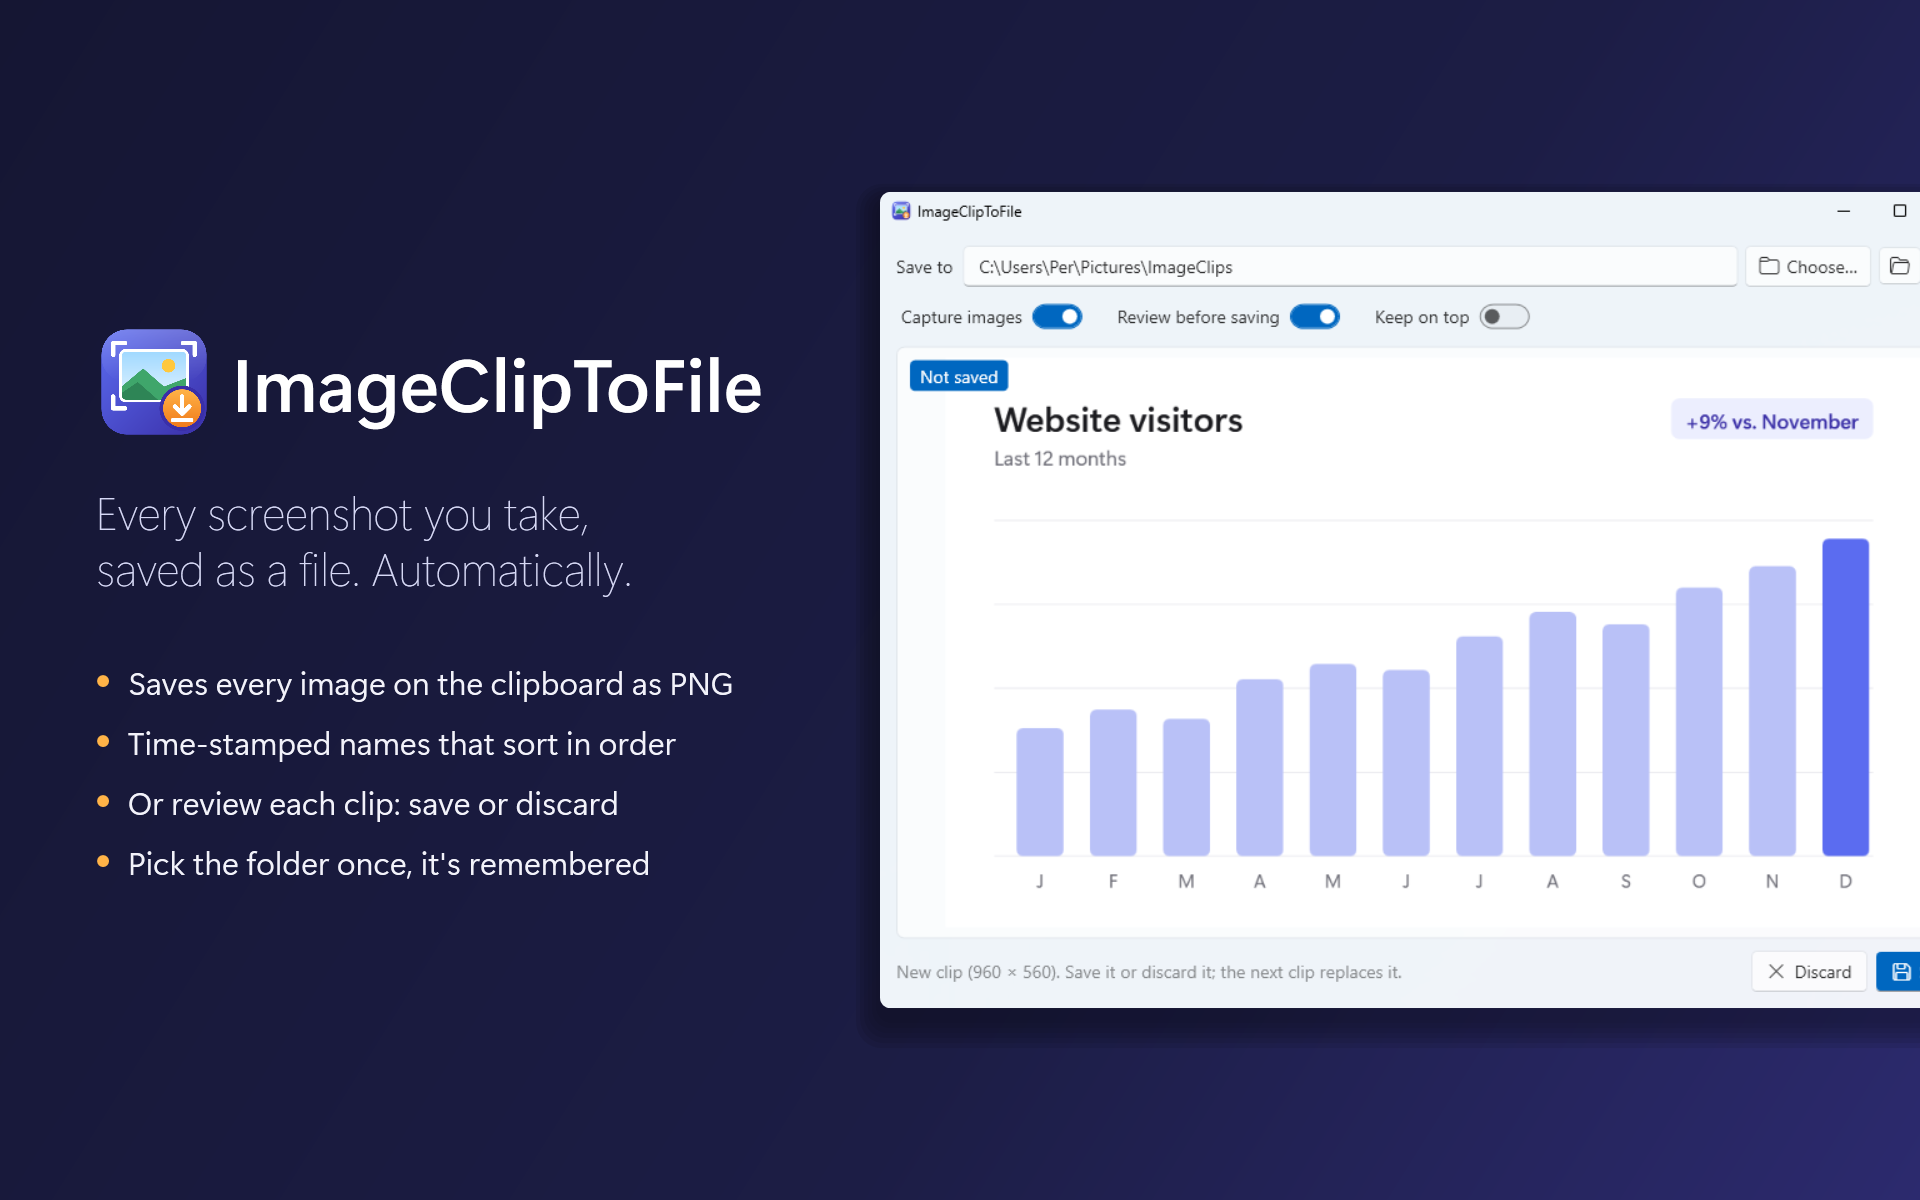
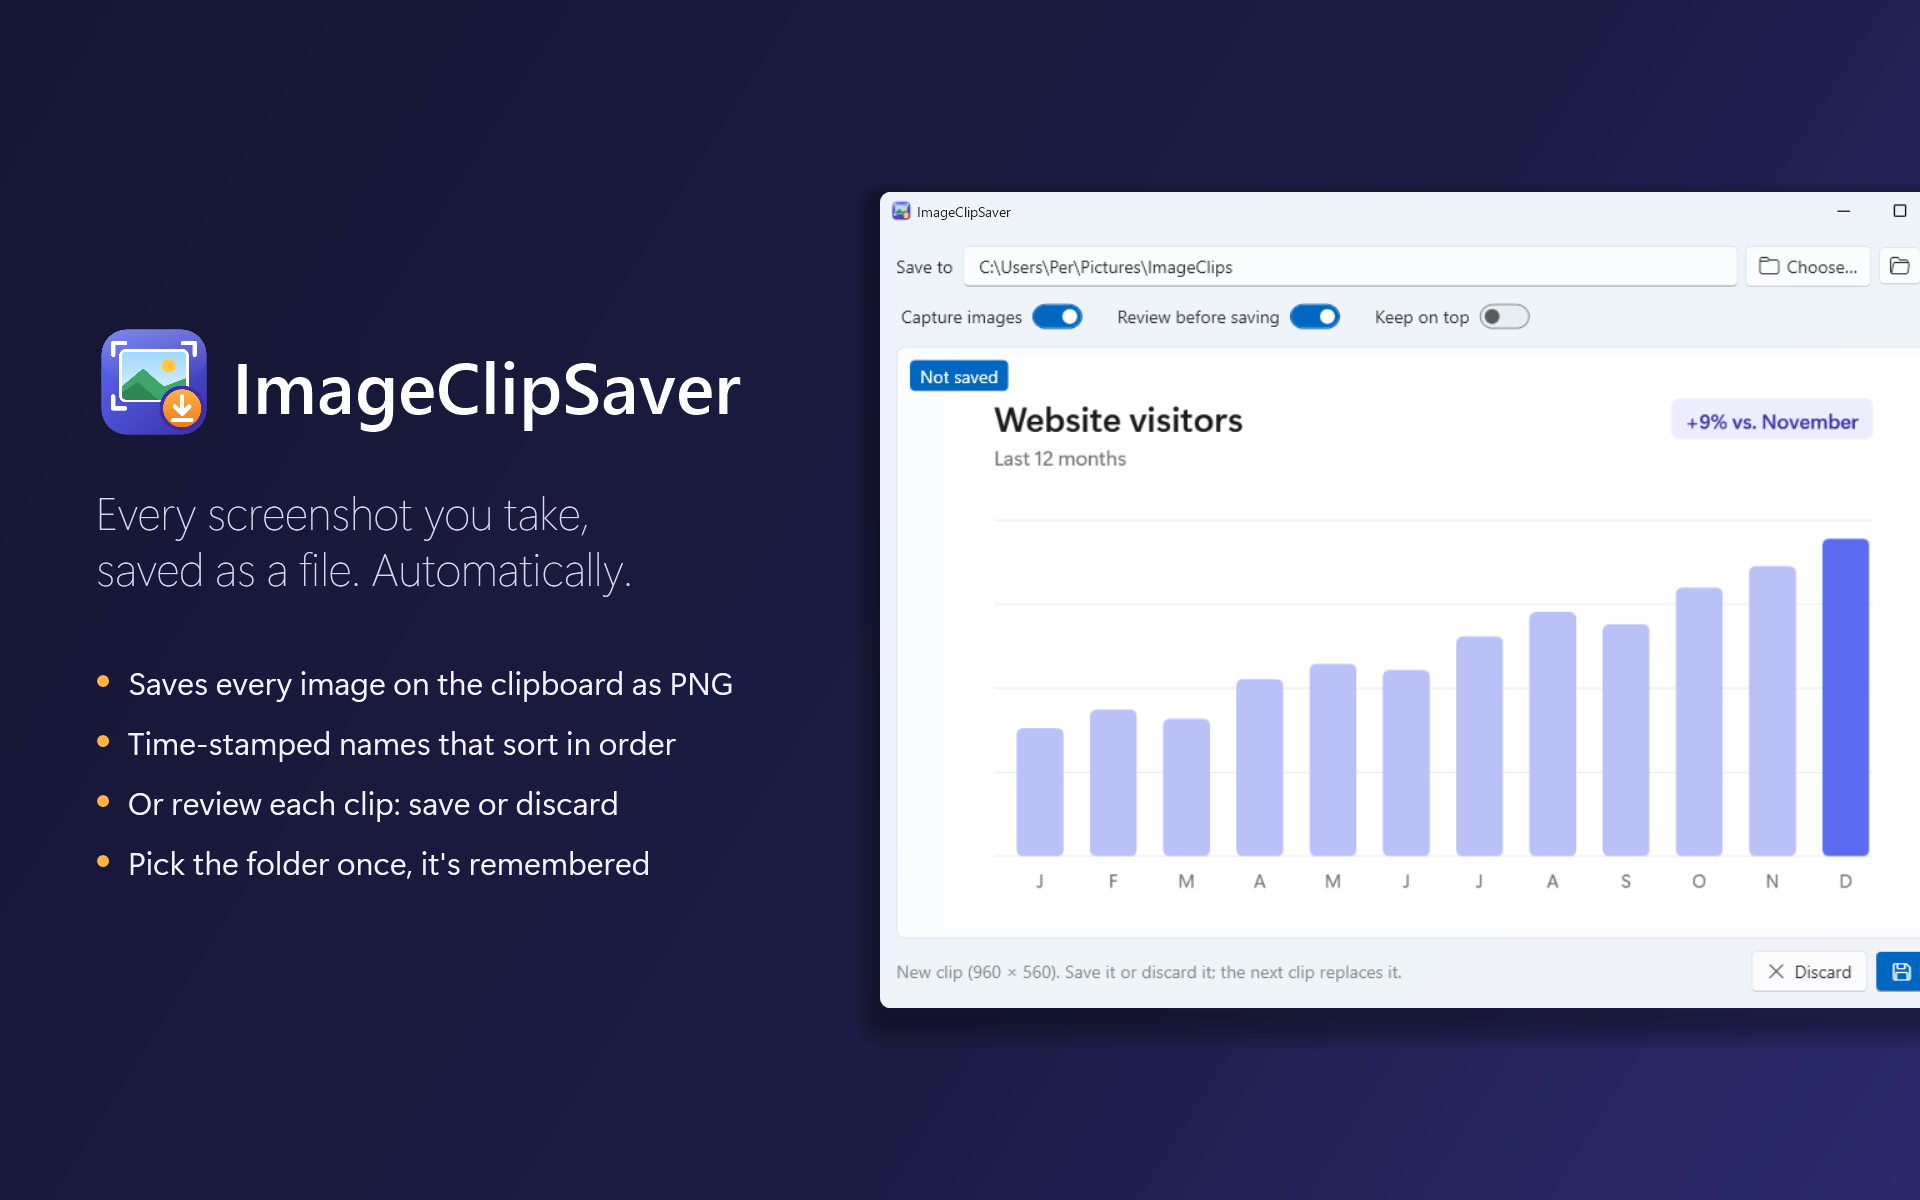
Rename ImageClipToFile to ImageClipSaver
The app, project, namespace, release script, workflow, README and banner
now use the new name, and the update check points at the renamed public
repo. Settings saved under the old name are still read on first start.

Changed region(s): [[0.125, 0.2775, 0.4062, 0.37], [0.4688, 0.1542, 0.5312, 0.185]]

diff --git a/ImageClipSaver/MainWindow.xaml b/ImageClipSaver/MainWindow.xaml
@@ -1,8 +1,8 @@
-<Window x:Class="ImageClipToFile.MainWindow"
+<Window x:Class="ImageClipSaver.MainWindow"
         xmlns="http://schemas.microsoft.com/winfx/2006/xaml/presentation"
         xmlns:x="http://schemas.microsoft.com/winfx/2006/xaml"
-        xmlns:local="clr-namespace:ImageClipToFile"
-        Title="ImageClipToFile"
+        xmlns:local="clr-namespace:ImageClipSaver"
+        Title="ImageClipSaver"
         Icon="app.ico"
         Width="760" Height="560" MinWidth="460" MinHeight="340"
         Loaded="Window_Loaded" Closing="Window_Closing">
@@ -40,7 +40,7 @@
         <DockPanel Grid.Row="0">
             <TextBlock DockPanel.Dock="Left" Text="Save to" VerticalAlignment="Center" Margin="0,0,8,0" />
             <Button DockPanel.Dock="Right" Margin="6,0,0,0" Padding="8,6" Command="{x:Static local:MainWindow.ShowAbout}"
-                    ToolTip="About ImageClipToFile and updates (F1)" AutomationProperties.Name="About ImageClipToFile">
+                    ToolTip="About ImageClipSaver and updates (F1)" AutomationProperties.Name="About ImageClipSaver">
                 <TextBlock Style="{StaticResource Glyph}" Text="&#xE946;" />
             </Button>
             <Button DockPanel.Dock="Right" Margin="6,0,0,0" Padding="8,6" Click="OpenFolder_Click"

diff --git a/ImageClipSaver/AboutWindow.xaml b/ImageClipSaver/AboutWindow.xaml
@@ -1,7 +1,7 @@
-<Window x:Class="ImageClipToFile.AboutWindow"
+<Window x:Class="ImageClipSaver.AboutWindow"
         xmlns="http://schemas.microsoft.com/winfx/2006/xaml/presentation"
         xmlns:x="http://schemas.microsoft.com/winfx/2006/xaml"
-        Title="About ImageClipToFile"
+        Title="About ImageClipSaver"
         Icon="app.ico"
         SizeToContent="WidthAndHeight" ResizeMode="NoResize"
         WindowStartupLocation="CenterOwner" ShowInTaskbar="False">
@@ -10,7 +10,7 @@
             <Image x:Name="AppIcon" Width="64" Height="64" VerticalAlignment="Top"
                    RenderOptions.BitmapScalingMode="HighQuality" />
             <StackPanel Margin="18,2,0,0" VerticalAlignment="Center">
-                <TextBlock Text="ImageClipToFile" FontSize="22" FontWeight="SemiBold" />
+                <TextBlock Text="ImageClipSaver" FontSize="22" FontWeight="SemiBold" />
                 <TextBlock x:Name="VersionText" Margin="0,2,0,0"
                            Foreground="{DynamicResource TextFillColorSecondaryBrush}"
                            ToolTip="Version · build time · commit" />

diff --git a/ImageClipSaver/App.xaml b/ImageClipSaver/App.xaml
@@ -1,4 +1,4 @@
-<Application x:Class="ImageClipToFile.App"
+<Application x:Class="ImageClipSaver.App"
              xmlns="http://schemas.microsoft.com/winfx/2006/xaml/presentation"
              xmlns:x="http://schemas.microsoft.com/winfx/2006/xaml"
              ThemeMode="System"

diff --git a/ImageClipSaver/AppSettings.cs b/ImageClipSaver/AppSettings.cs
@@ -1,14 +1,20 @@
 using System.IO;
 using System.Text.Json;
 
-namespace ImageClipToFile;
+namespace ImageClipSaver;
 
 /// <summary>
-/// Small JSON settings file in %LocalAppData%\ImageClipToFile.
+/// Small JSON settings file in %LocalAppData%\ImageClipSaver.
 /// </summary>
 internal sealed class AppSettings
 {
     private static readonly string FilePath = Path.Combine(
+        Environment.GetFolderPath(Environment.SpecialFolder.LocalApplicationData),
+        "ImageClipSaver",
+        "settings.json");
+
+    // Where the app kept its settings before it was renamed from ImageClipToFile
+    private static readonly string LegacyFilePath = Path.Combine(
         Environment.GetFolderPath(Environment.SpecialFolder.LocalApplicationData),
         "ImageClipToFile",
         "settings.json");
@@ -31,8 +37,9 @@ internal sealed class AppSettings
     {
         try
         {
-            if (File.Exists(FilePath))
-                return JsonSerializer.Deserialize<AppSettings>(File.ReadAllText(FilePath)) ?? new AppSettings();
+            var path = File.Exists(FilePath) ? FilePath : LegacyFilePath;
+            if (File.Exists(path))
+                return JsonSerializer.Deserialize<AppSettings>(File.ReadAllText(path)) ?? new AppSettings();
         }
         catch (Exception ex) when (ex is IOException or JsonException or UnauthorizedAccessException)
         {

diff --git a/ImageClipSaver/MainWindow.xaml.cs b/ImageClipSaver/MainWindow.xaml.cs
@@ -9,7 +9,7 @@ using System.Windows.Interop;
 using System.Windows.Media.Imaging;
 using Microsoft.Win32;
 
-namespace ImageClipToFile;
+namespace ImageClipSaver;
 
 public partial class MainWindow : Window
 {
@@ -77,7 +77,7 @@ public partial class MainWindow : Window
         if (_pendingPng != null)
         {
             var answer = MessageBox.Show(this, "The clip you are reviewing hasn't been saved. Save it before closing?",
-                "ImageClipToFile", MessageBoxButton.YesNoCancel, MessageBoxImage.Question);
+                "ImageClipSaver", MessageBoxButton.YesNoCancel, MessageBoxImage.Question);
             if (answer == MessageBoxResult.Cancel || (answer == MessageBoxResult.Yes && !SavePendingClip()))
             {
                 e.Cancel = true;
@@ -179,7 +179,7 @@ public partial class MainWindow : Window
 
             File.WriteAllBytes(path, png);
             _savedCount++;
-            Title = $"ImageClipToFile – {_savedCount} saved";
+            Title = $"ImageClipSaver – {_savedCount} saved";
             return path;
         }
         catch (Exception ex) when (ex is IOException or UnauthorizedAccessException or ArgumentException or NotSupportedException)

diff --git a/ImageClipSaver/AboutWindow.xaml.cs b/ImageClipSaver/AboutWindow.xaml.cs
@@ -5,12 +5,12 @@ using System.Windows.Navigation;
 using Velopack;
 using Velopack.Sources;
 
-namespace ImageClipToFile;
+namespace ImageClipSaver;
 
 public partial class AboutWindow : Window
 {
     // Public GitHub repo whose releases BuildRelease.ps1 uploads to
-    public const string RepoUrl = "https://github.com/kreaton/ImageClipToFile";
+    public const string RepoUrl = "https://github.com/kreaton/ImageClipSaver";
 
     private readonly UpdateManager _updateManager = new(new GithubSource(RepoUrl, accessToken: null, prerelease: false));
 

diff --git a/ImageClipSaver/ClipboardImage.cs b/ImageClipSaver/ClipboardImage.cs
@@ -4,7 +4,7 @@ using System.Windows;
 using System.Windows.Media;
 using System.Windows.Media.Imaging;
 
-namespace ImageClipToFile;
+namespace ImageClipSaver;
 
 /// <summary>
 /// Reads an image from the clipboard. WPF's Clipboard.GetImage() mangles many screenshots

diff --git a/ImageClipSaver/BuildInfo.cs b/ImageClipSaver/BuildInfo.cs
@@ -1,7 +1,7 @@
 using System.Globalization;
 using System.Reflection;
 
-namespace ImageClipToFile;
+namespace ImageClipSaver;
 
 /// <summary>Version, commit and build time stamped in by Directory.Build.props.</summary>
 public static class BuildInfo

diff --git a/ImageClipSaver/App.xaml.cs b/ImageClipSaver/App.xaml.cs
@@ -1,4 +1,4 @@
-namespace ImageClipToFile;
+namespace ImageClipSaver;
 
 public partial class App : System.Windows.Application
 {

diff --git a/ImageClipSaver/Program.cs b/ImageClipSaver/Program.cs
@@ -1,6 +1,6 @@
 using Velopack;
 
-namespace ImageClipToFile;
+namespace ImageClipSaver;
 
 internal static class Program
 {

diff --git a/README.md b/README.md
@@ -1,20 +1,20 @@
-# ImageClipToFile
+# ImageClipSaver
 
-[![Release](https://img.shields.io/github/v/release/kreaton/ImageClipToFile)](https://github.com/kreaton/ImageClipToFile/releases/latest)
+[![Release](https://img.shields.io/github/v/release/kreaton/ImageClipSaver)](https://github.com/kreaton/ImageClipSaver/releases/latest)
 [![License: MIT](https://img.shields.io/badge/license-MIT-blue)](LICENSE)
 ![Windows](https://img.shields.io/badge/platform-Windows-lightgrey)
 ![.NET 10](https://img.shields.io/badge/.NET-10-lightgrey)
 ![WPF](https://img.shields.io/badge/UI-WPF-lightgrey)
 
-![ImageClipToFile: every screenshot you take, saved as a file](images/banner.png)
+![ImageClipSaver: every screenshot you take, saved as a file](images/banner.png)
 
 **Take screenshots and have each one saved as a file automatically.**
 
-ImageClipToFile watches the Windows clipboard. When an image arrives (from Win+Shift+S, Print Screen, the Snipping Tool, "Copy image" in a browser, or any other app), it is saved as a PNG in a folder you choose. No pasting, no Save dialog.
+ImageClipSaver watches the Windows clipboard. When an image arrives (from Win+Shift+S, Print Screen, the Snipping Tool, "Copy image" in a browser, or any other app), it is saved as a PNG in a folder you choose. No pasting, no Save dialog.
 
 ## Install
 
-**[Download the installer](https://github.com/kreaton/ImageClipToFile/releases/latest/download/ImageClipToFile-win-Setup.exe)** and run it. If your PC doesn't have the .NET 10 Desktop Runtime yet, the installer adds it.
+**[Download the installer](https://github.com/kreaton/ImageClipSaver/releases/latest/download/ImageClipSaver-win-Setup.exe)** and run it. If your PC doesn't have the .NET 10 Desktop Runtime yet, the installer adds it.
 
 The installer isn't code-signed, so Windows may warn you about it. To continue, choose **More info → Run anyway**.
 
@@ -22,7 +22,7 @@ To get a newer version later, click the **ⓘ** button (or press F1) and choose 
 
 ## How to use it
 
-1. Start ImageClipToFile.
+1. Start ImageClipSaver.
 2. Click **Choose…** and pick the folder the images should go in. The default is `Pictures\ImageClips`. The folder is created if it doesn't exist, and the app remembers your choice.
 3. Take screenshots as usual, for example with **Win+Shift+S** or **Print Screen**. Each image is saved straight away and shown in the window.
 4. Click the folder button (or press **Ctrl+O**) to open the folder in File Explorer.
@@ -59,7 +59,7 @@ If you close the app while a clip is waiting, it asks whether to save it first.
 - If an app announces the same image several times in a row, it is only saved once.
 - The title bar shows how many clips you have saved in this session.
 - The app follows the Windows light or dark setting.
-- Your folder, switches and window position are remembered in `%LocalAppData%\ImageClipToFile\settings.json`.
+- Your folder, switches and window position are remembered in `%LocalAppData%\ImageClipSaver\settings.json`.
 - The version, build time and commit are shown under **ⓘ** (F1).
 
 ---
@@ -71,10 +71,10 @@ The app is built with WPF on .NET 10, using the built-in Fluent theme. Installs 
 Build and run it with the .NET 10 SDK:
 
 ```bash
-dotnet run --project ImageClipToFile/ImageClipToFile.csproj
+dotnet run --project ImageClipSaver/ImageClipSaver.csproj
 ```
 
-Or open `ImageClipToFile.slnx` in Visual Studio 2026.
+Or open `ImageClipSaver.slnx` in Visual Studio 2026.
 
 ### How it works
 
@@ -85,7 +85,7 @@ Or open `ImageClipToFile.slnx` in Visual Studio 2026.
 
 ### Releases
 
-Every push to `main` runs [.github/workflows/release.yml](.github/workflows/release.yml), which calls [BuildRelease.ps1](ImageClipToFile/BuildRelease.ps1). The script publishes a framework-dependent win-x64 build, packs it with Velopack's `vpk`, and uploads it as a GitHub release with the installer and delta packages.
+Every push to `main` runs [.github/workflows/release.yml](.github/workflows/release.yml), which calls [BuildRelease.ps1](ImageClipSaver/BuildRelease.ps1). The script publishes a framework-dependent win-x64 build, packs it with Velopack's `vpk`, and uploads it as a GitHub release with the installer and delta packages.
 
 - The version is `Major.Minor.Patch`. Set Major.Minor by hand in [Directory.Build.props](Directory.Build.props). The patch is one higher than the latest release with that Major.Minor.
 - Pushes that only touch docs can skip a release with `[skip ci]` in the commit message.
@@ -96,10 +96,10 @@ Every push to `main` runs [.github/workflows/release.yml](.github/workflows/rele
   ```
 
   ```bash
-  pwsh ImageClipToFile/BuildRelease.ps1 -LocalOnly
+  pwsh ImageClipSaver/BuildRelease.ps1 -LocalOnly
   ```
 
-  The installer ends up in `ImageClipToFile/Releases`.
+  The installer ends up in `ImageClipSaver/Releases`.
 
 ## Credits
 
